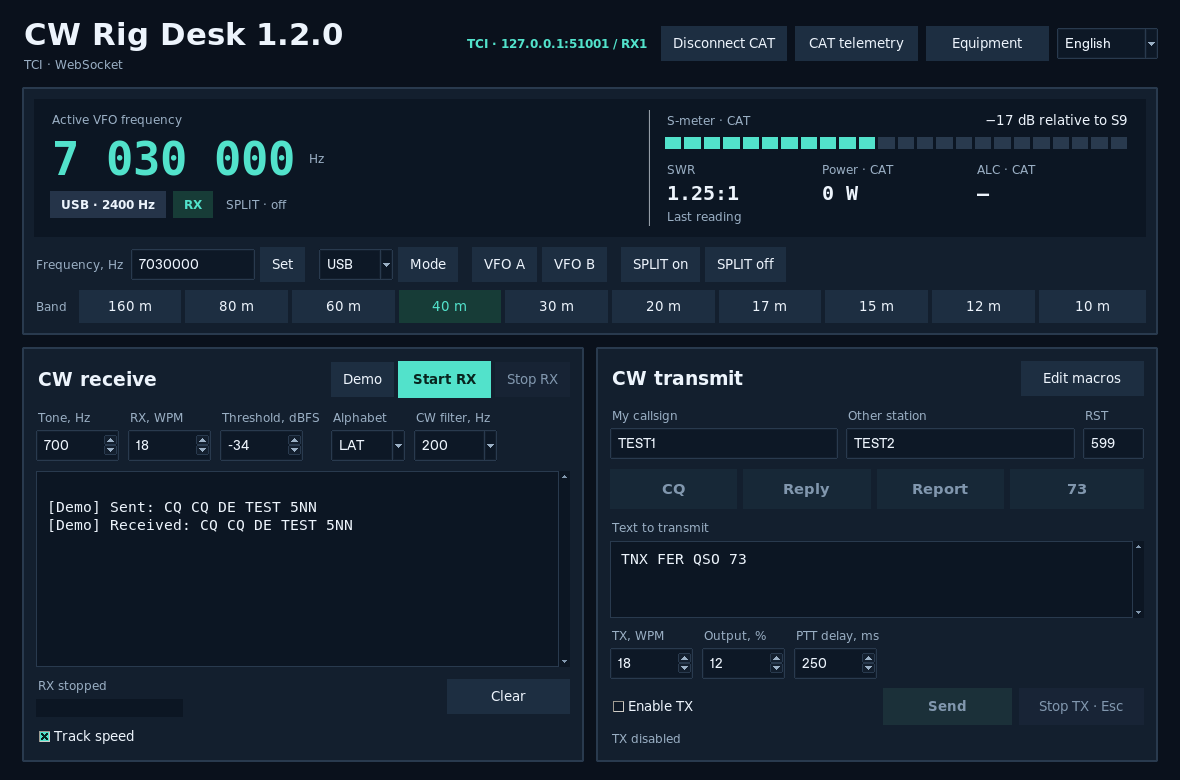
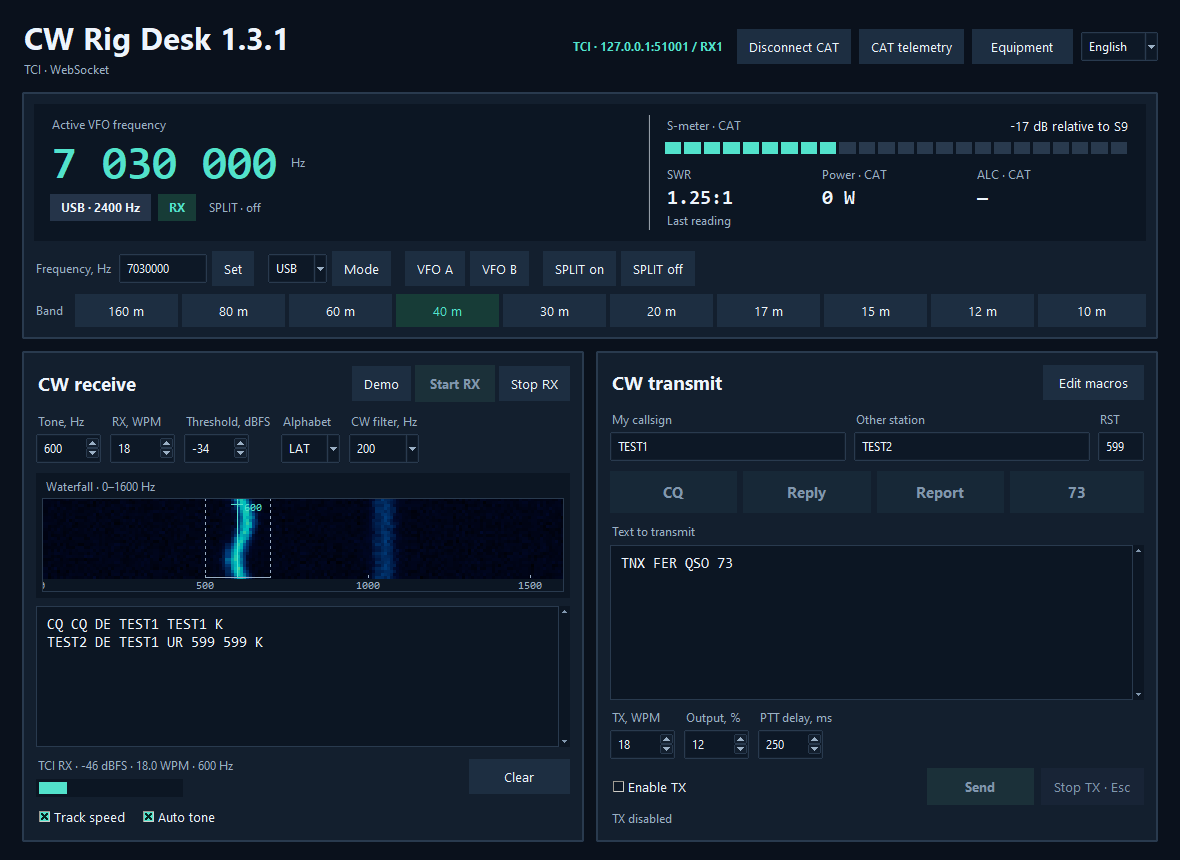
Update README screenshots with the audio waterfall

diff --git a/README.ru.md b/README.ru.md
@@ -12,7 +12,7 @@
 
 Доступность команд VFO, SPLIT, PTT и показаний зависит от сервера, модели и прошивки. Примеры в строке Hamlib взяты из списка драйверов Hamlib. Проверка с физическими трансиверами для этой версии ещё предстоит.
 
-![Главное окно CW Rig Desk с демонстрационными показаниями](docs/main-window.png)
+![Главное окно CW Rig Desk с водопадом и демонстрационными показаниями](docs/main-window.png)
 
 ## Первый запуск
 

diff --git a/README.md b/README.md
@@ -12,7 +12,7 @@ Windows desktop workstation for receiving, decoding and transmitting Morse code.
 
 Frequency, mode, bands, VFO/channel, split and PTT follow the selected profile. Meter readings and optional commands depend on the device, server and firmware. Models listed under Hamlib are examples from Hamlib's supported-rig list. Hardware operation has yet to be verified for this release.
 
-![CW Rig Desk main window with demo readings](docs/main-window-en.png)
+![CW Rig Desk main window with the audio waterfall and demo readings](docs/main-window-en.png)
 
 ## Quick start
 
